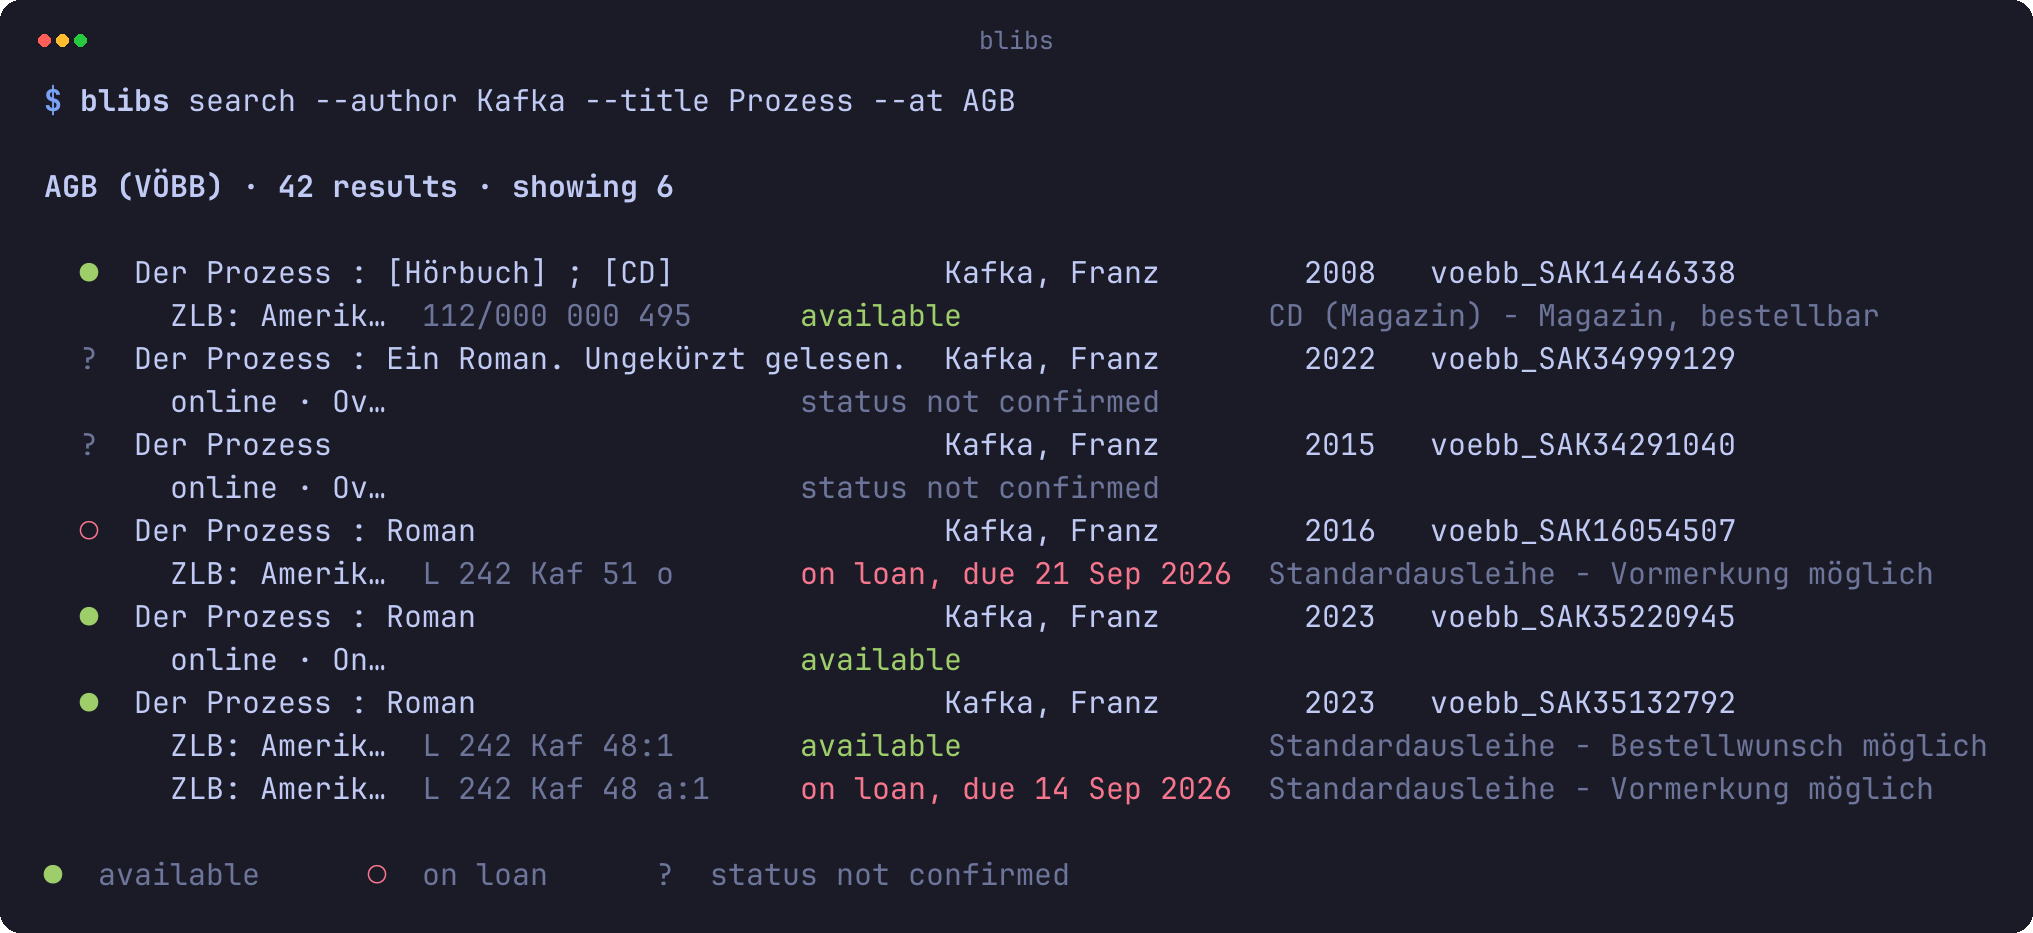
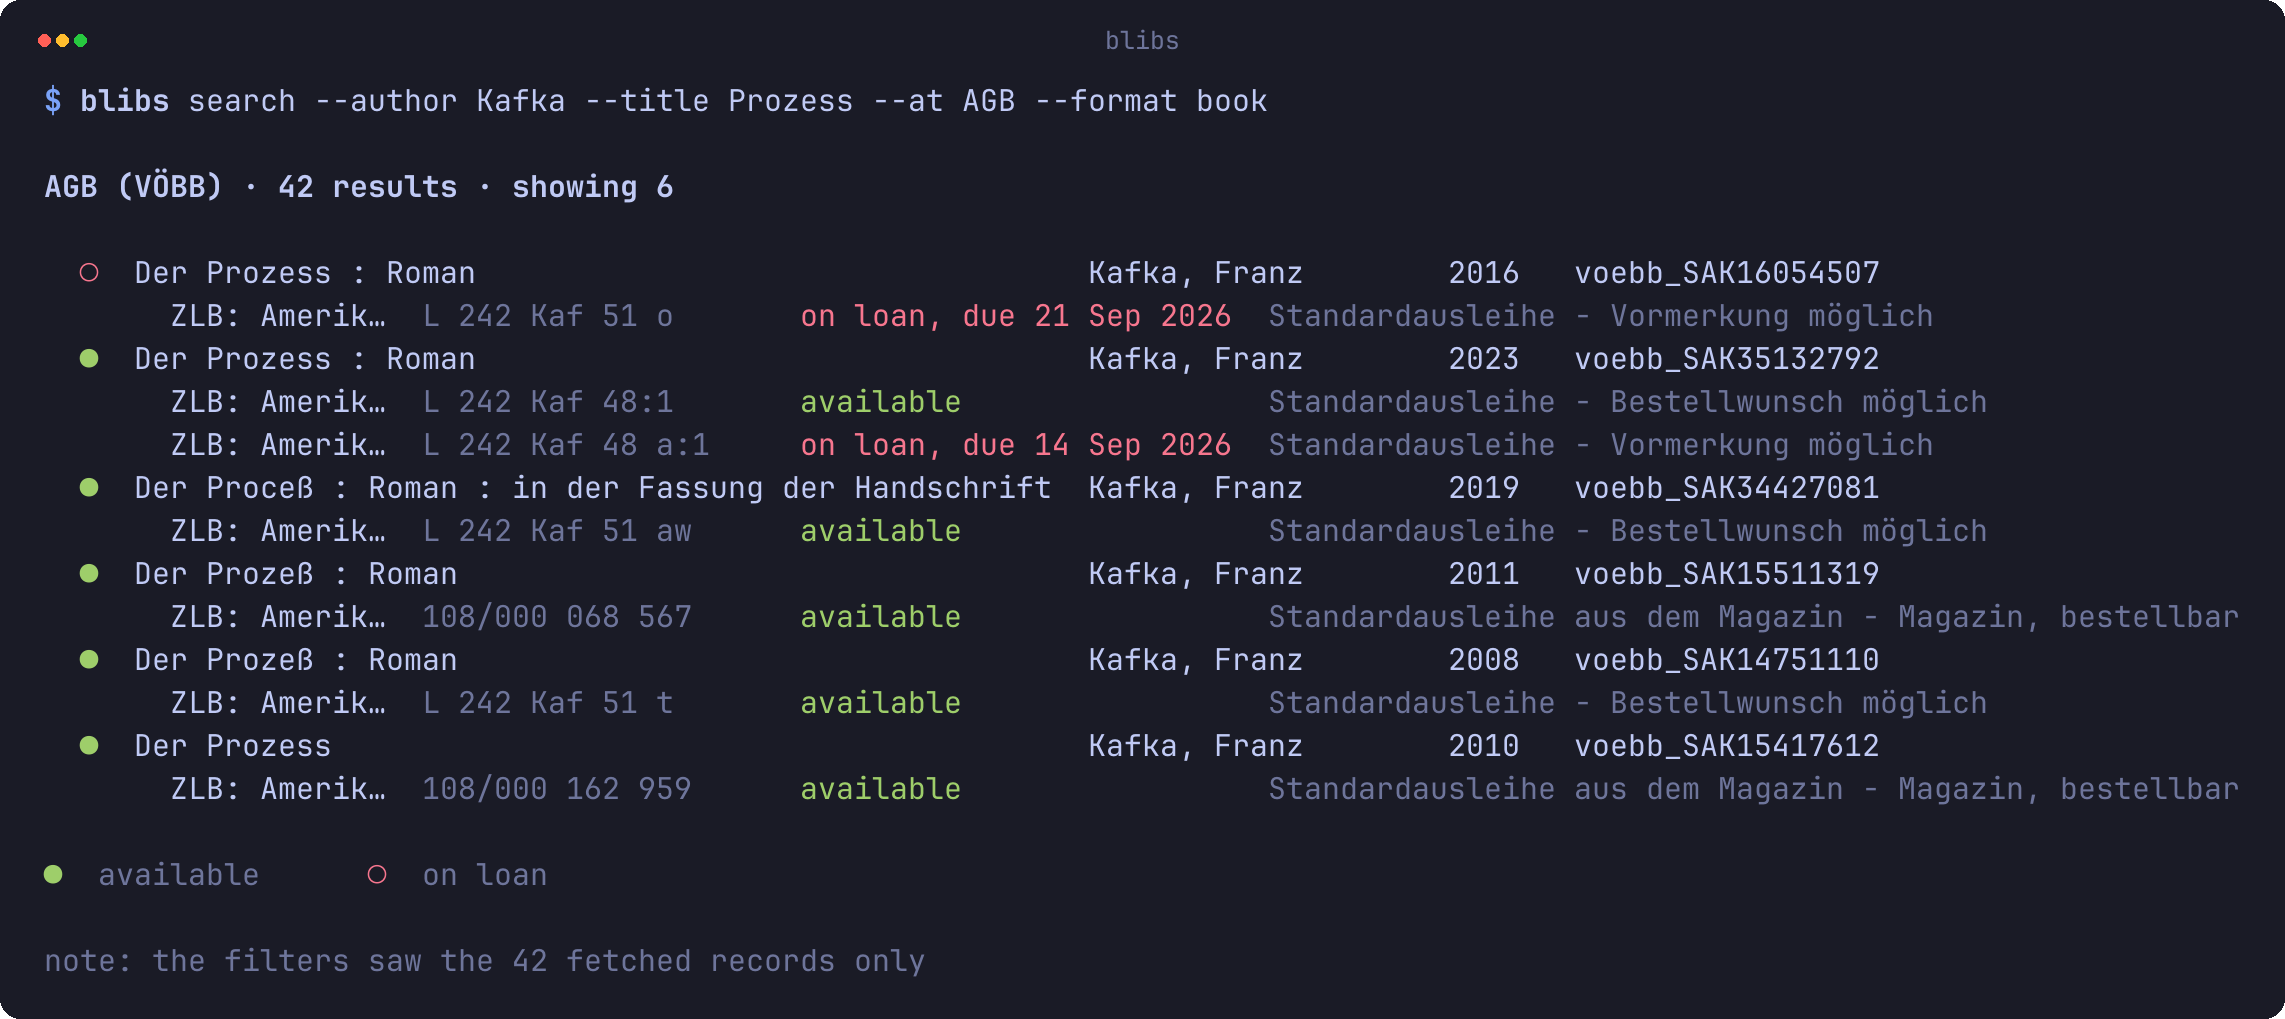
Show two books, since that is what people look for
The search screenshot mixed a CD, two Onleihe titles and a book; --format
book makes it six editions of one novel with their shelfmarks side by side,
and the window note under it says what the filter saw. The detail shot was
a Haneke DVD — now the record the line above it found: six copies of the
same book at five branches, four in and two out with their due dates.

Claude-Session: https://claude.ai/code/session_01L18wbwam31SmyJzcww4WYy

diff --git a/README.md b/README.md
@@ -10,11 +10,11 @@ Search the libraries of Berlin and Brandenburg from the command line.
 
 [Install](#install) · [Usage](#usage) · [For machines](#for-machines)
 
-![blibs search --author Kafka --title Prozess --at AGB](docs/search.png)
+![blibs search --author Kafka --title Prozess --at AGB --format book](docs/search.png)
 
-A green light means a copy is on the shelf right now, red means it is out, `?` means the
-catalogue was asked and stated nothing. Under each hit stand the copies of that library:
-where they are, their shelfmark, their status.
+A green light means a copy is on the shelf right now, red means it is out — and where the
+catalogue states nothing, `blibs` prints `?` rather than a guess. Under each hit stand the
+copies of that library: where they are, their shelfmark, their status.
 
 ## Install
 
@@ -64,7 +64,7 @@ sort and filter by neither, and the output says so rather than implying otherwis
 
 ### One title in full
 
-![blibs show almatuudk_BV021739966 --at UDK,ZLB](docs/show.png)
+![blibs show voebb_SAK35132792](docs/show.png)
 
 The id comes from the search output and carries the catalogue it belongs to. `--at` lists
 your libraries first and, for a branch, narrows the copies to that branch.
